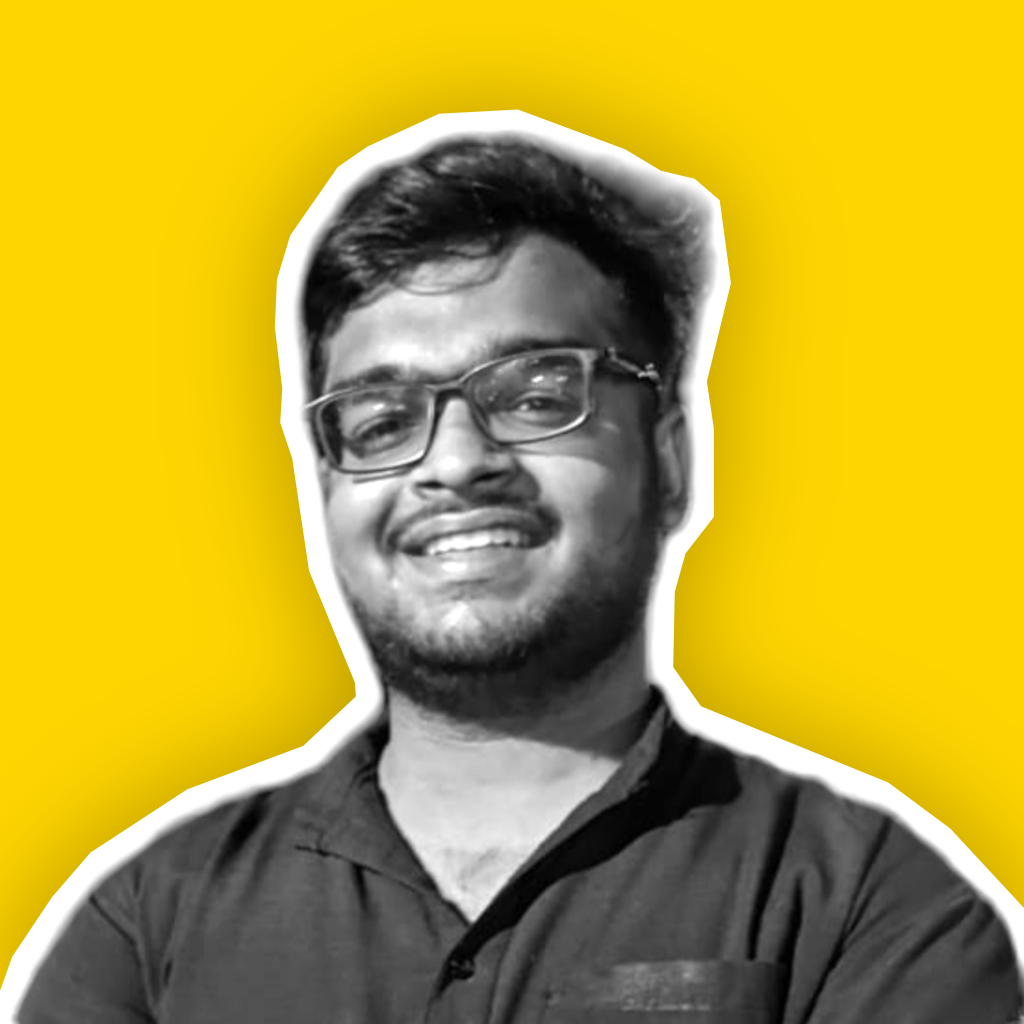
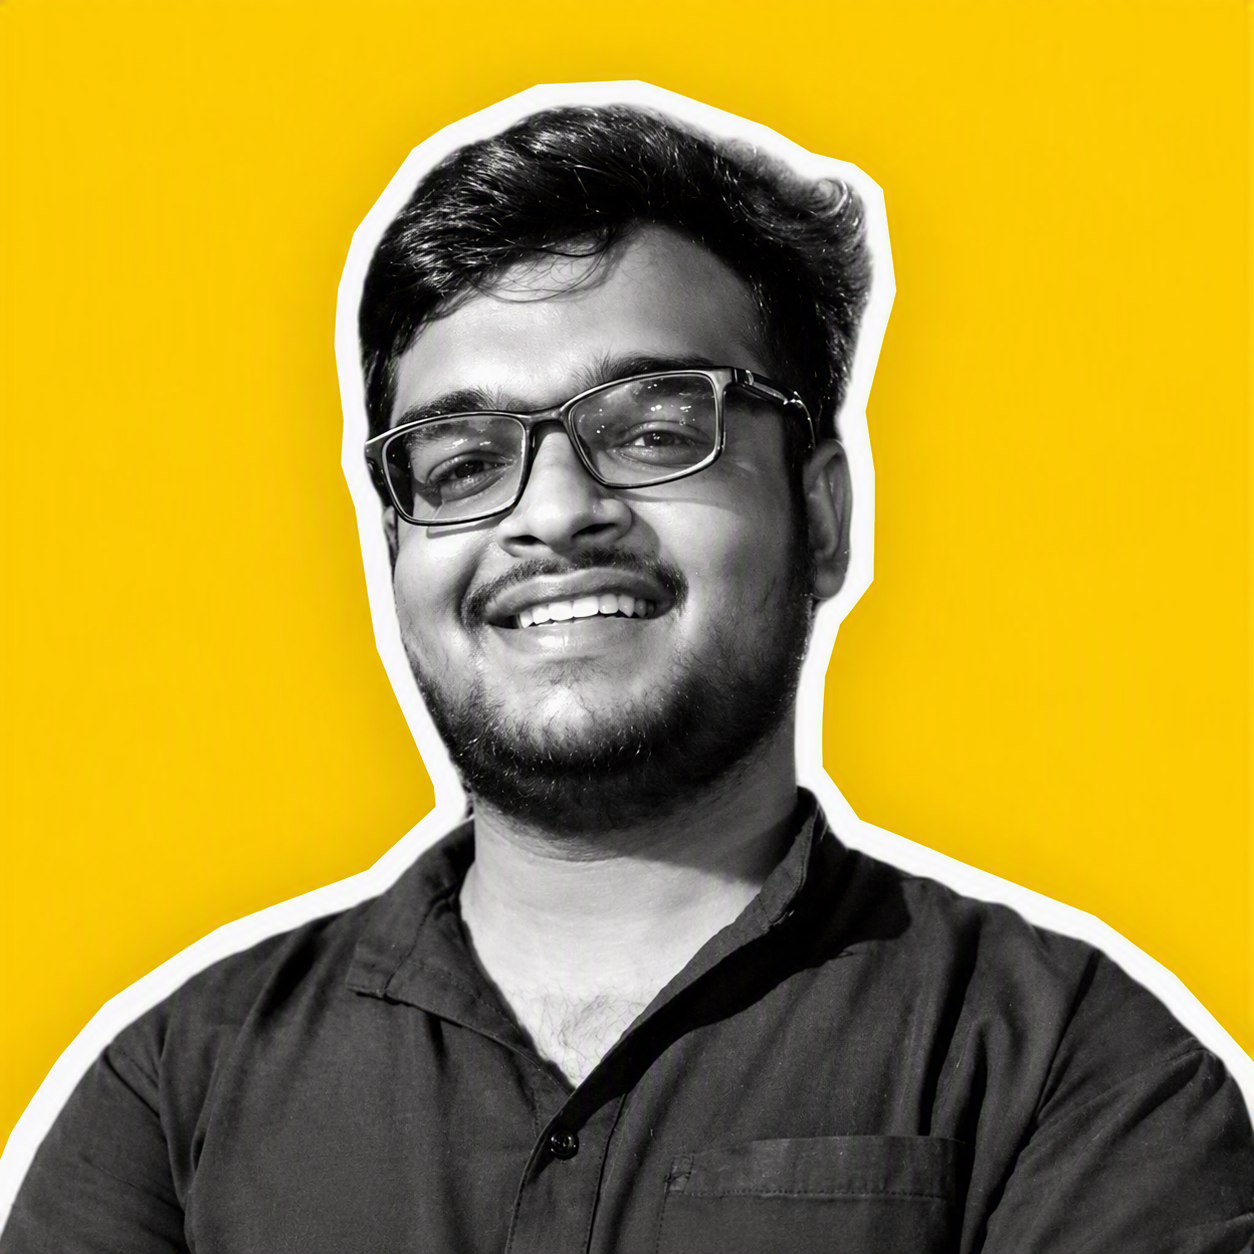
Update home illustration to use Designer.png and refresh SVG artwork

diff --git a/index.html b/index.html
@@ -117,7 +117,7 @@
                 <div class="home__visual reveal">
                     <div class="home__portrait panel">
                         <div class="home__portrait-image">
-                            <img src="assets/img/software-engineer-coding.svg" alt="Vector illustration of a software engineer coding" class="home__illustration">
+                            <img src="assets/img/Designer.png" alt="Illustration of a software engineer coding at a workstation" class="home__illustration">
                         </div>
                         <div class="home__floating home__floating--top panel">
                             <span class="home__floating-label">Current focus</span>
